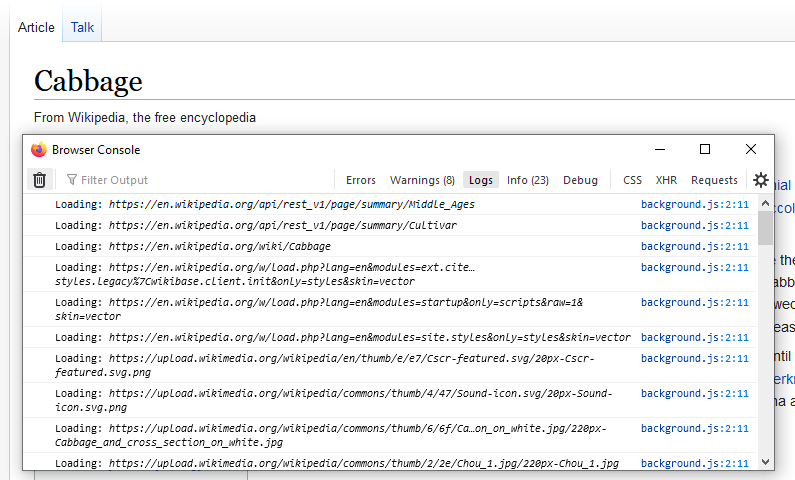
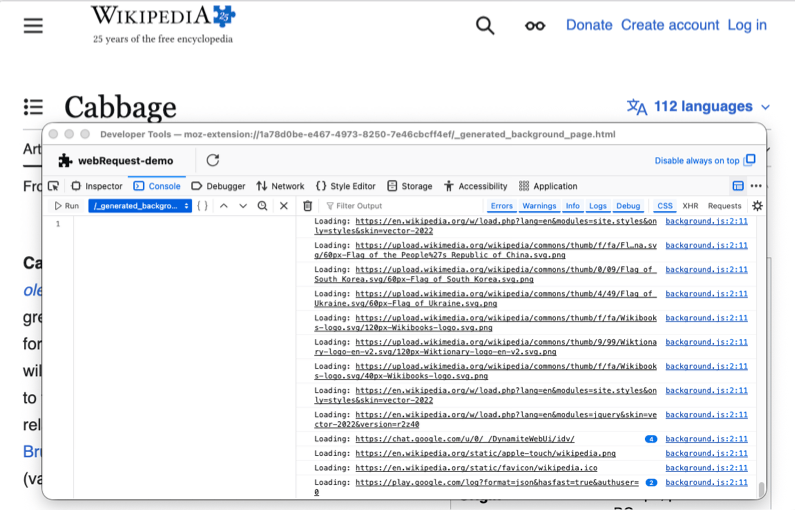
Update instruction and image for Logging request URLs

diff --git a/files/en-us/mozilla/add-ons/webextensions/intercept_http_requests/index.md b/files/en-us/mozilla/add-ons/webextensions/intercept_http_requests/index.md
@@ -59,19 +59,13 @@ The `{urls: ["<all_urls>"]}` [pattern](/en-US/docs/Mozilla/Add-ons/WebExtensions
 To test it:
 
 - [Install the extension](https://extensionworkshop.com/documentation/develop/temporary-installation-in-firefox/)
-- Open the [Browser Console](https://firefox-source-docs.mozilla.org/devtools-user/browser_console/) (use <kbd>Ctrl + Shift + J</kbd>)
-- Enable _Show Content Messages_ in the menu:
-
-![Browser console menu: Show Content Messages](browser_console_show_content_messages.png)
-
+- In `about:debugging`, **This Firefox** (or **This Nightly**), click **Inspect** next to the extension.
 - Open some web pages.
 
-In the Browser Console, you should see the URLs for any resources the browser requests.
+In the Developer Tools console, you see the URLs for any resources the browser requests.
 For example, this screenshot shows the URLs from loading a Wikipedia page:
 
-![Browser console menu: URLs from extension](browser_console_url_from_extension.png)
-
-<!-- {{EmbedYouTube("X3rMgkRkB1Q")}} -->
+![The Developer Tools console showing logged call URLs.](browser_console_url_from_extension.png)
 
 ### Redirecting requests
 
@@ -204,7 +198,7 @@ Then reload the extension, reload [useragentstring.com](https://useragentstring.
 
 ![useragentstring.com showing details of the modified user agent string](modified_request_header.png)
 
-## Using the `declarativeNetRequest` API
+## Using the declarativeNetRequest API
 
 To illustrate the use of the `declarativeNetRequest` API, this section includes examples showing how to redirect requests and modify request headers using declarative rules.
 